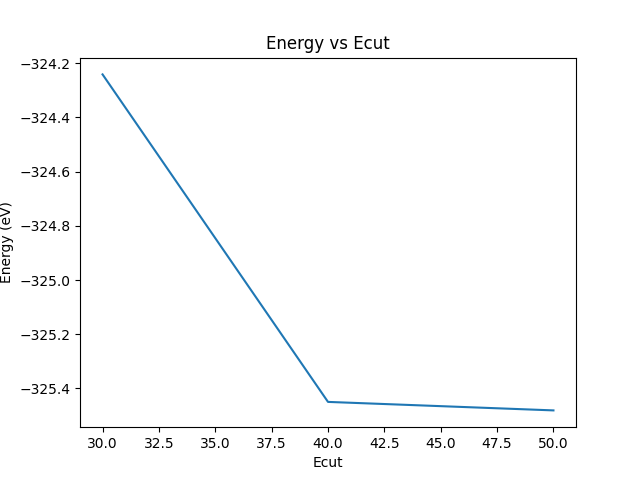
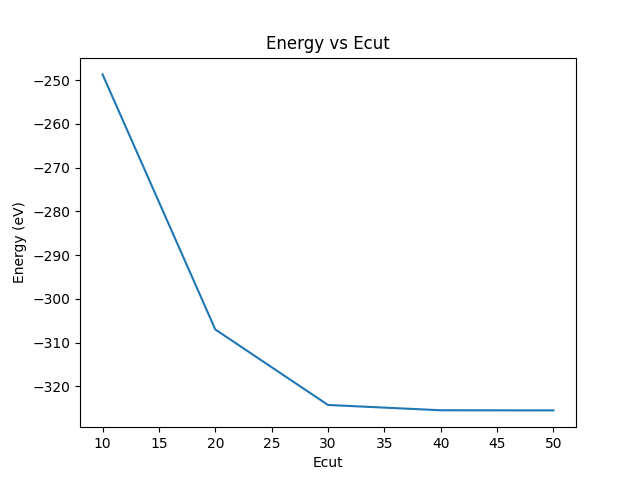
all_optimizers

diff --git a/input_module.py b/input_module.py
@@ -86,7 +86,7 @@ def SCF_INPUT(upf, latt_k, ecut, k_pts):
 
 
 
-def k_pt_opt(lower_lt=8, upper_lt=9):
+def k_pt_opt(lower_lt=8, upper_lt=10):
     data = np.array([])
     
     for k_points in range(lower_lt, upper_lt):
@@ -110,7 +110,7 @@ def k_pt_opt(lower_lt=8, upper_lt=9):
 
 res_k_pt = k_pt_opt()
 
-def ecut_opt(lower_ecut=30, upper_ecut=120):
+def ecut_opt(lower_ecut=10, upper_ecut=120):
     data = np.array([0,lower_ecut,res_k_pt,0])
     ec_prev = 0
     for ecut in range(lower_ecut, upper_ecut, 10):
@@ -166,8 +166,11 @@ def latt_opt(lower_lt=1, upper_lt=10,LEVEL=3):
     plt.savefig(name + " lattice.png")
     return latt_min
 
-res_latt = latt_opt(lower_lt=5, upper_lt=19, LEVEL=3)
-        
+res_latt = latt_opt(lower_lt=11, upper_lt=15, LEVEL=3)
+
+
 clean()
+#print("Create final .in file with optimized parameters")
+#SCF_INPUT(upf, res_latt, res_ecut, res_k_pt)
 
 
